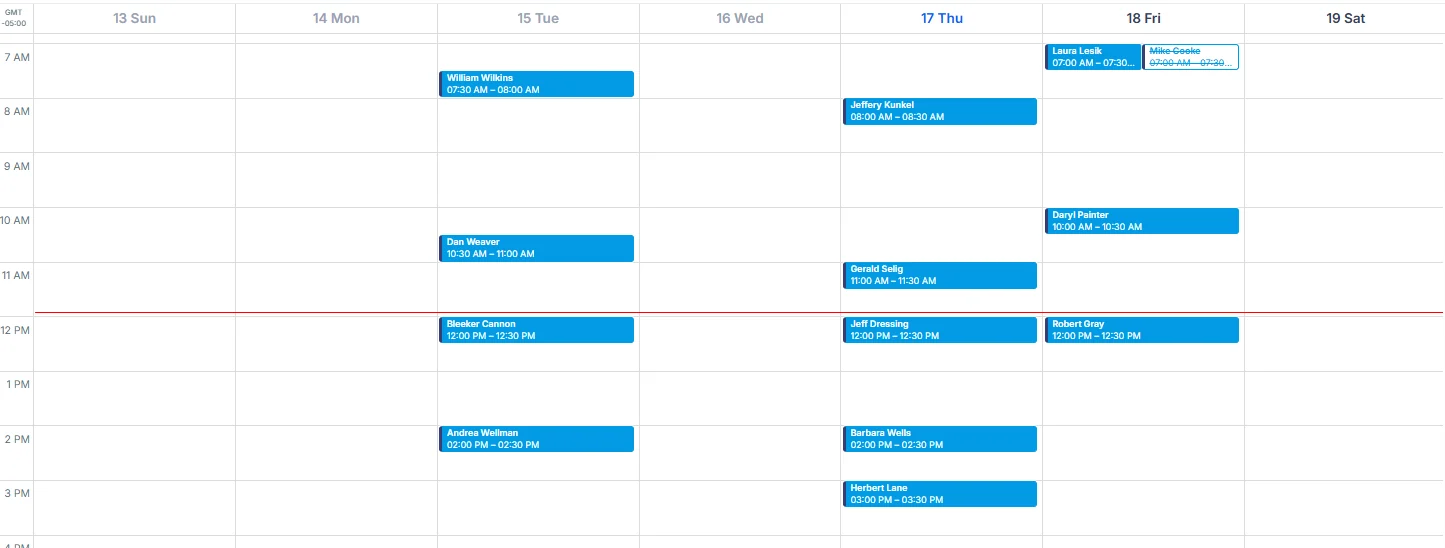
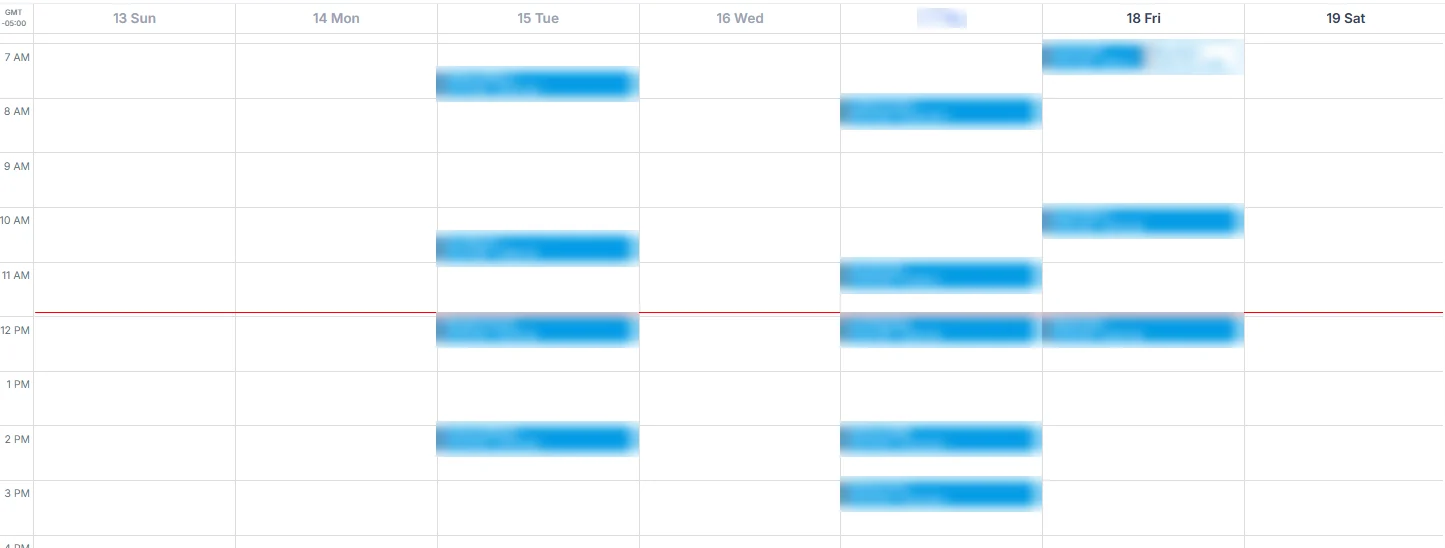
Blur homeowner names in case study calendar screenshots
Every appointment box in the eight calendar images is pixelated and
blurred so no homeowner name is readable, and each calendar legend says
so. Regenerated from the original screenshots.

Claude-Session: https://claude.ai/code/session_01MyUeh9BjSjQoXJ4WBrEJ9F

diff --git a/lib/case-studies.ts b/lib/case-studies.ts
@@ -141,7 +141,7 @@ export const CASE_STUDIES: CaseStudy[] = [
     calendar: {
       title: "Phil's estimate calendar",
       range: "August 30 to September 19, 2026",
-      legend: "Every blue event is an appointment booked by Appointly. Struck through events are cancellations.",
+      legend: "Every blue event is an appointment booked by Appointly. Struck through events are cancellations. Homeowner names are blurred for privacy.",
       shots: [
         { src: "/images/case-studies/cfc-cal-week1.webp", width: 1447, height: 414, label: "Week of August 30 to September 5" },
         { src: "/images/case-studies/cfc-cal-week2.webp", width: 1410, height: 486, label: "Week of September 6 to 12" },
@@ -207,7 +207,7 @@ export const CASE_STUDIES: CaseStudy[] = [
     calendar: {
       title: "Mark's estimate calendar",
       range: "June 2026",
-      legend: "Every blue event is an appointment booked by Appointly. Twenty appointments in the month.",
+      legend: "Every blue event is an appointment booked by Appointly. Twenty appointments in the month. Homeowner names are blurred for privacy.",
       shots: [
         { src: "/images/case-studies/afab-cal-june.webp", width: 1444, height: 708, label: "June 2026" },
       ],
@@ -276,7 +276,7 @@ export const CASE_STUDIES: CaseStudy[] = [
     calendar: {
       title: "Eric's estimate calendar",
       range: "August 16 to September 12, 2026",
-      legend: "Every blue event is an appointment booked by Appointly. Struck through events are cancellations and are not counted.",
+      legend: "Every blue event is an appointment booked by Appointly. Struck through events are cancellations and are not counted. Homeowner names are blurred for privacy.",
       shots: [
         { src: "/images/case-studies/gf-cal-week1.webp", width: 1314, height: 476, label: "Week of August 16 to 22" },
         { src: "/images/case-studies/gf-cal-week2.webp", width: 1310, height: 426, label: "Week of August 23 to 29" },
